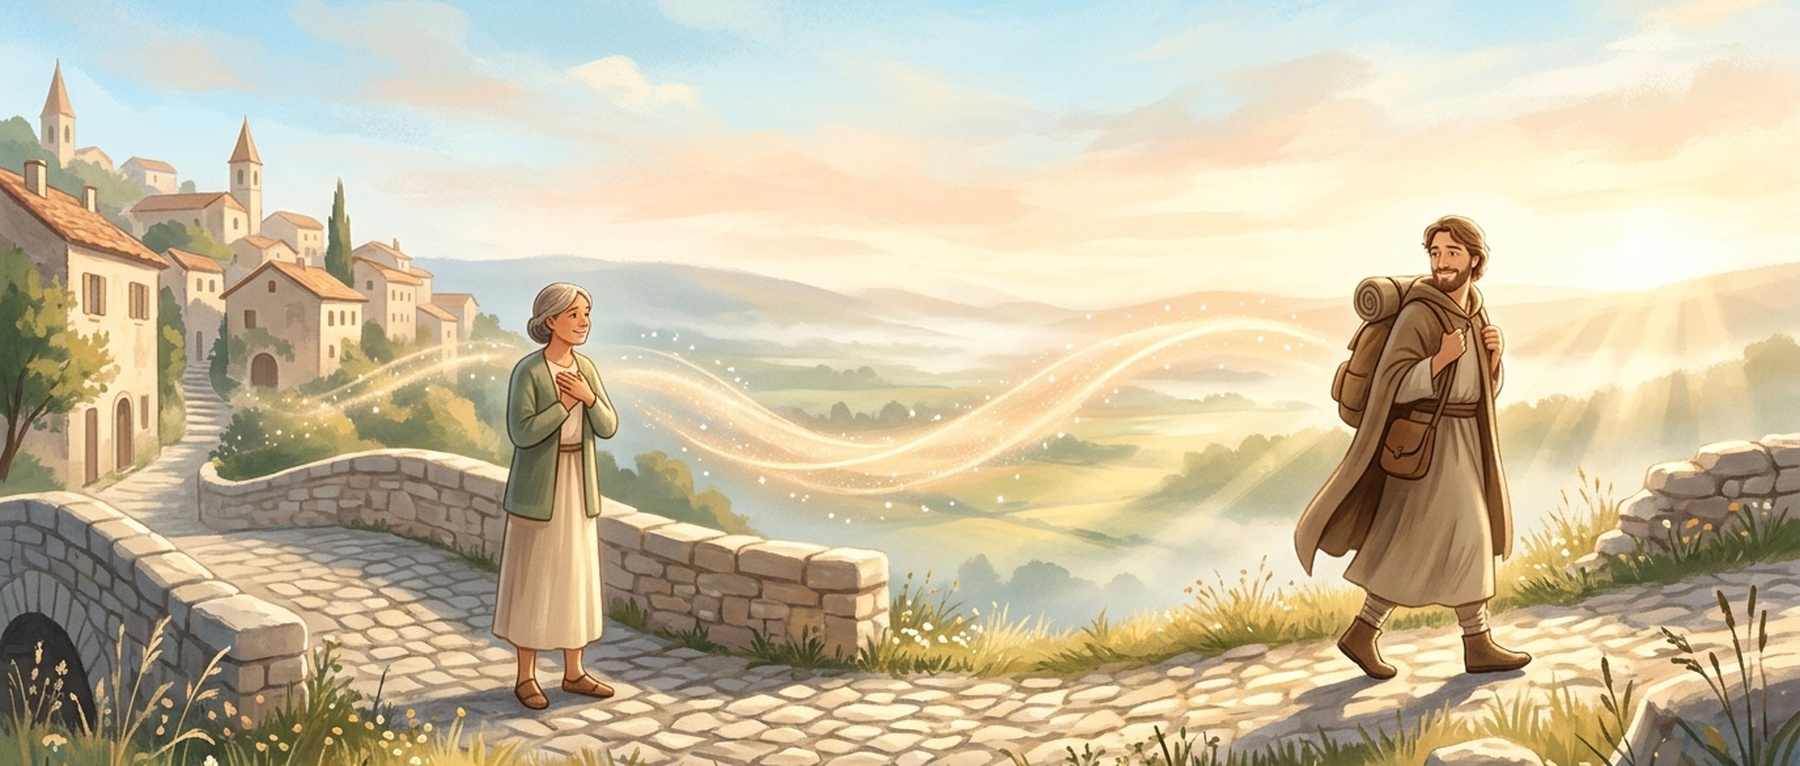
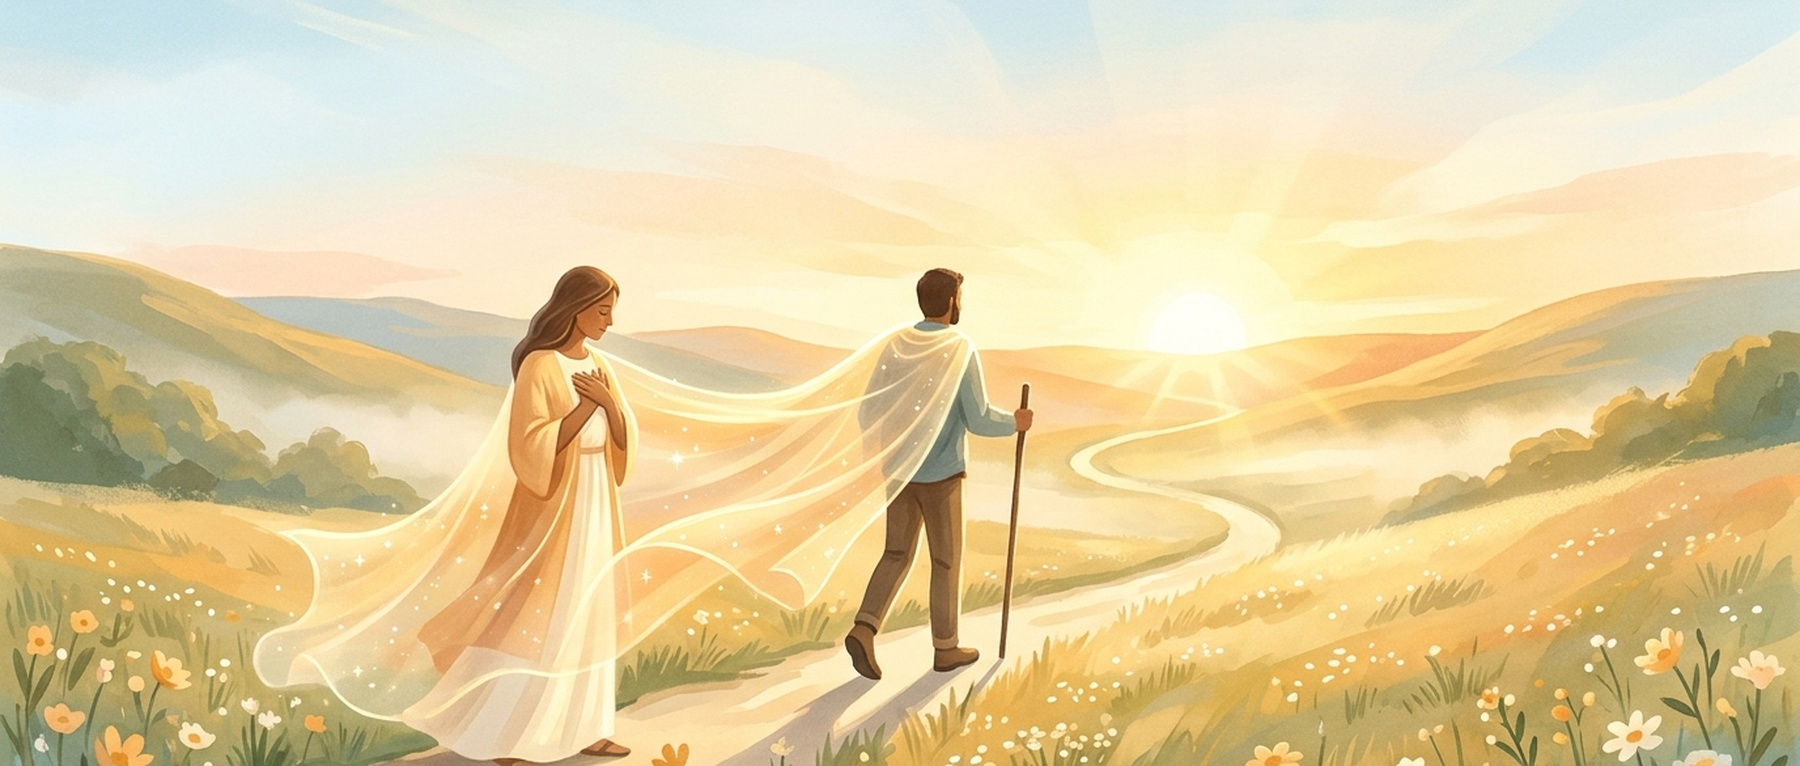
fix: redesign goodbye cover to conceptual golden cloak of blessing (2.35:1)

diff --git a/原来每天随口说的“Goodbye”，是一句穿越了600年的深情祈祷.md b/原来每天随口说的“Goodbye”，是一句穿越了600年的深情祈祷.md
@@ -1,10 +1,10 @@
 # 原来每天随口说的“Goodbye”，是一句穿越了600年的深情祈祷
 **The Hidden Prayer in "Goodbye": A 600-Year-Old Blessing We Whisper Every Day**
 
-> **【公众号封面图说明】**
+> **【公众号封面图说明（2.35:1 官方首条标准）】**
 > * **标准官方封面（900×383）**：`./images/wechat_cover_goodbye_900x383.jpg`（已严格适配微信公众号 2.35:1 首条封面规范，居中聚焦，安全留白）
 > * **超清高清封面（1800×766）**：`./images/wechat_cover_goodbye_1800x766.jpg`（2倍超清高分屏适配）
-> * **视觉意境与艺术隐喻**：晨曦破晓的温柔金色地平线上，两位同行的旅人在石桥古道前依依作别。一人背负行囊将赴远方，回眸微笑；另一人手按胸口真挚相送。两人之间流淌着一缕微光般的金色星尘飘带，如同一道跨越千山万水的无形守护之桥，深情诠释“愿天地替我护你周全”。
+> * **视觉意境与艺术隐喻**：新世相/纽约客哲思插画风。破晓喷薄的金光越过薄雾山丘与繁花古道，送行者双手轻抚胸口默默祈愿，一抹由晨曦金光与星尘织就的半透明守护光芒斗篷，轻柔披覆在前行远行者的肩头——深刻诠释 600 年前 *Goodbye*（*God be with you*）的真谛：“让每一次说出的再见，都化作一件温暖的守护铠甲：去吧，愿天地替我护你周全。”
 > 
 > ![公众号封面图](./images/wechat_cover_goodbye_900x383.jpg)
 
